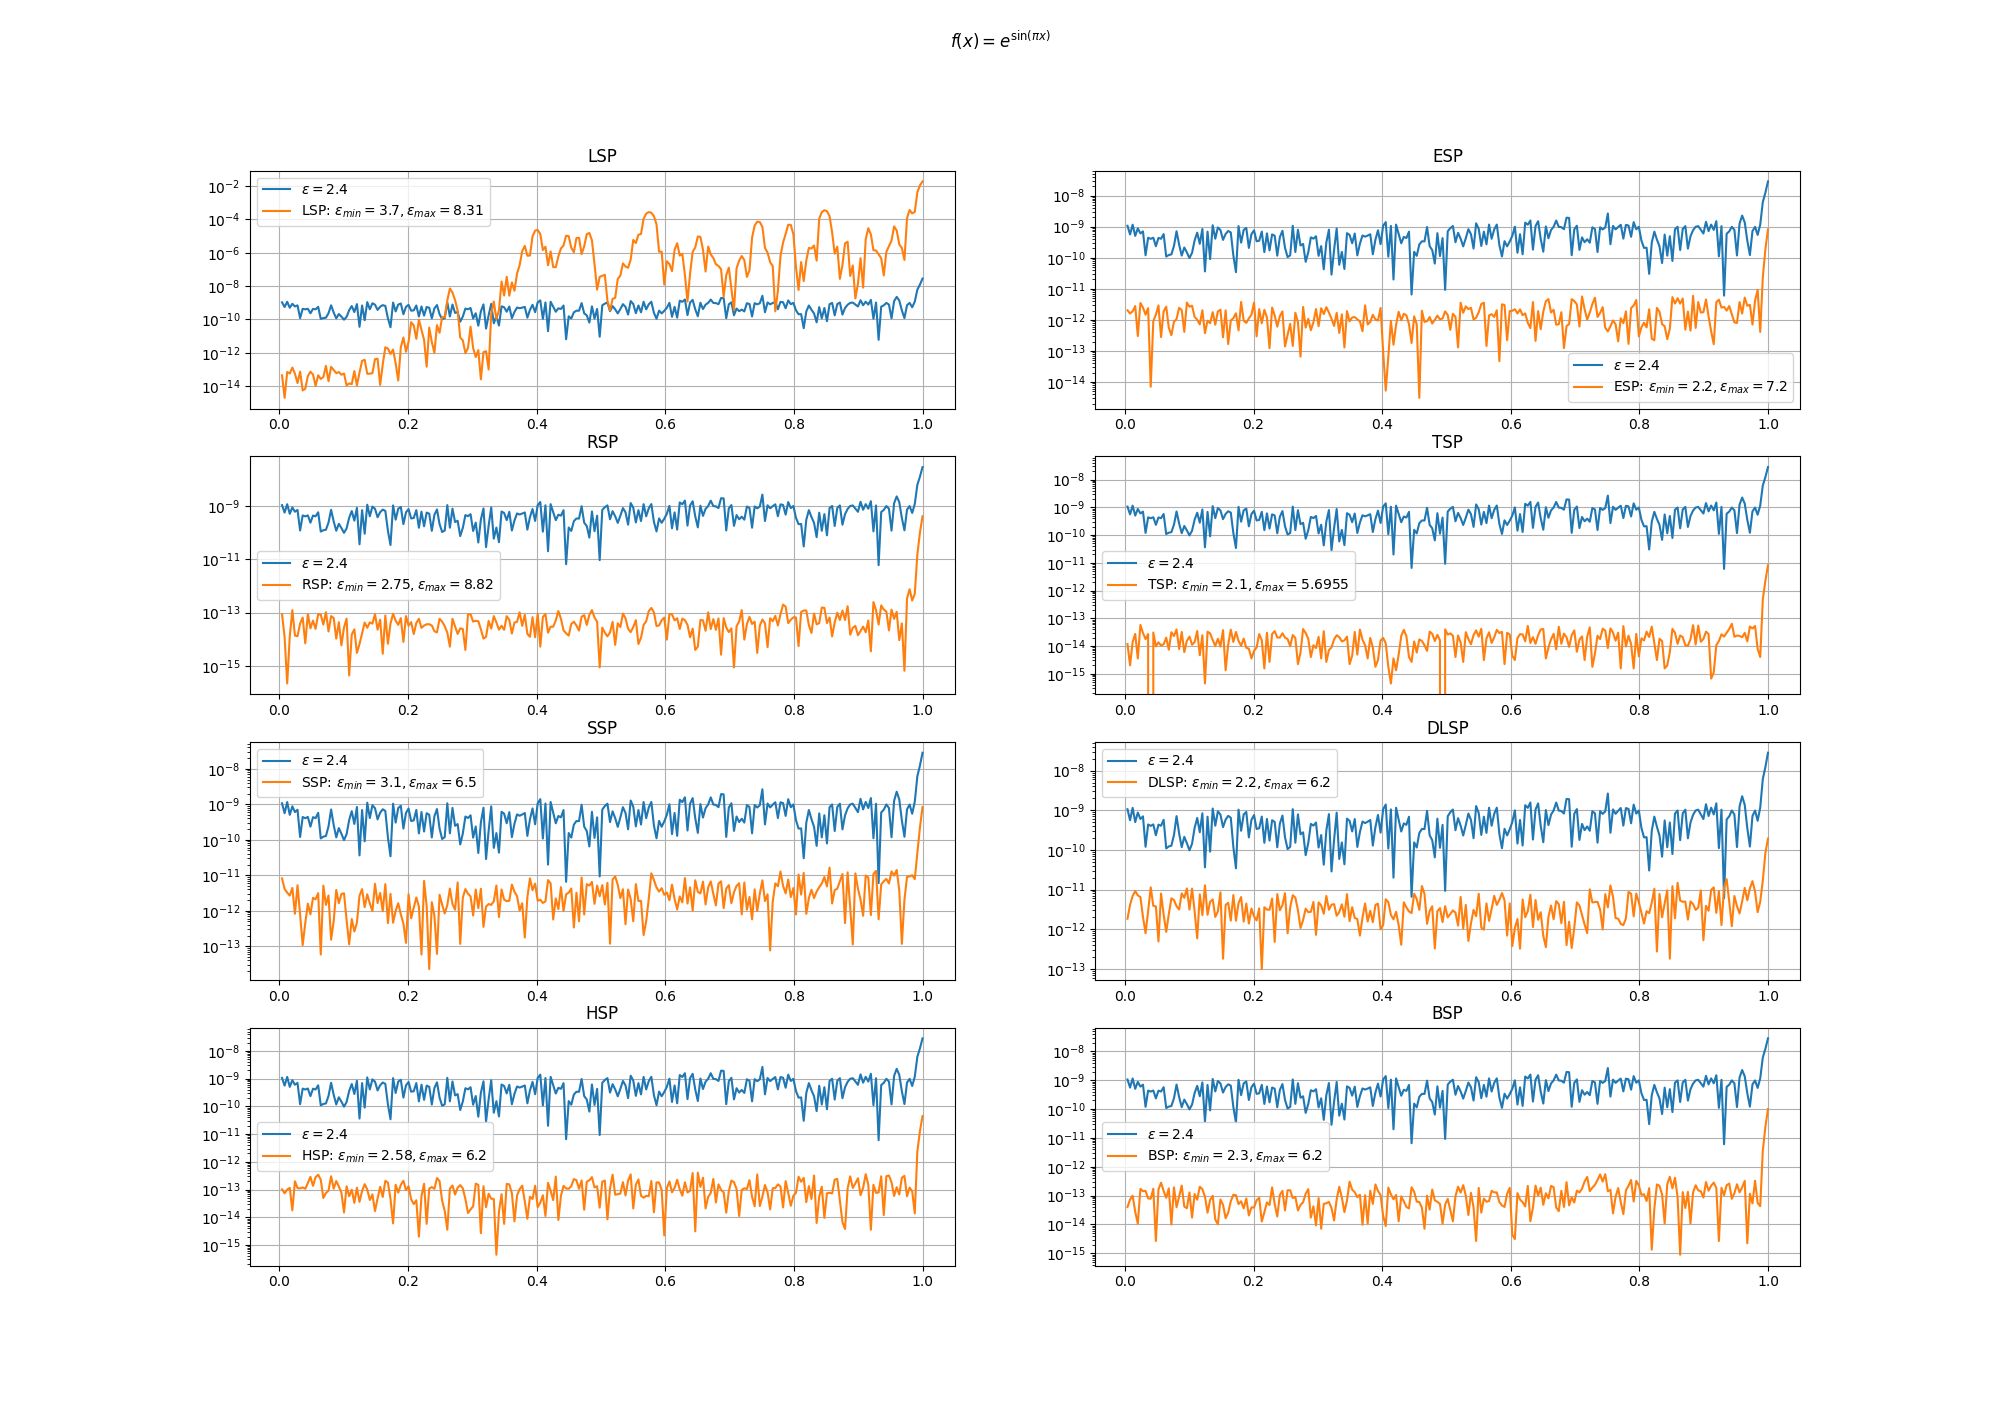
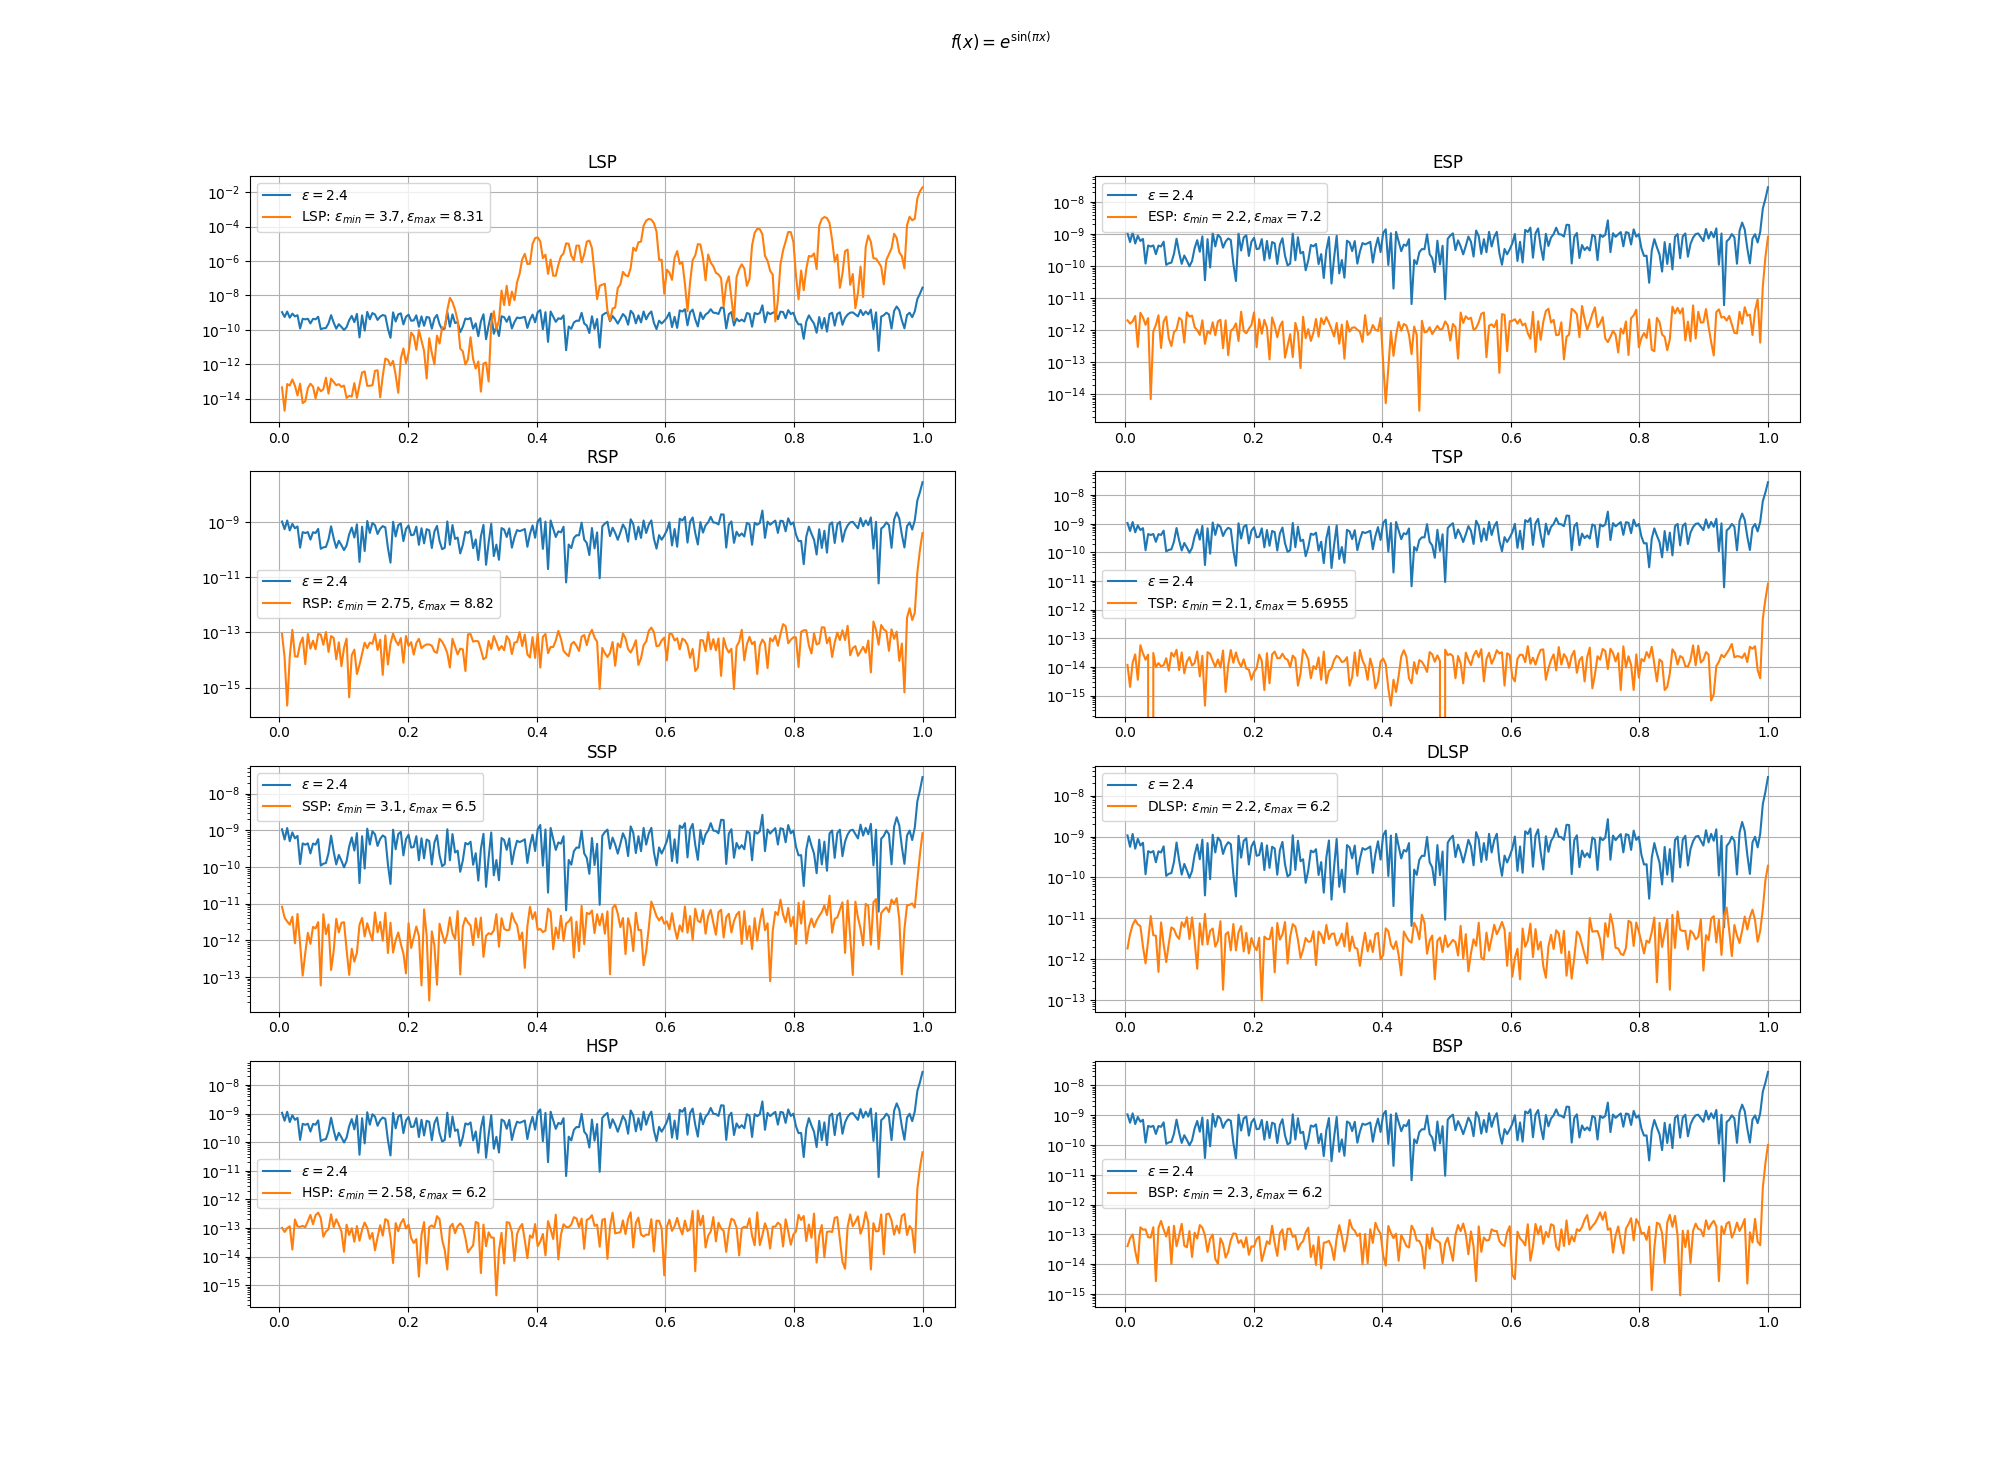
forgot to update the plots and fixed a minor error

diff --git a/1dTestOfVariableSPStrats1.py b/1dTestOfVariableSPStrats1.py
@@ -227,7 +227,7 @@ def RecordData(interps, func_at_evals, sys_matrices, error_data):
     for i in range(len(sys_matrices)):
         kappa[i] = npl.cond(sys_matrices[i])
         norms[i] = npl.norm(interps[i] - func_at_evals, np.inf)
-        avg_err[i] = np.average(error_data[:, i])
+        avg_err[i] = np.average(error_data[i, :])
 
     with open("Test1/Test1-NormsConds.csv", mode='w', newline='') as file:
         writer = csv.writer(file)

diff --git a/1dTestOfVariableSPStrats2.py b/1dTestOfVariableSPStrats2.py
@@ -227,7 +227,7 @@ def RecordData(interps, func_at_evals, sys_matrices, error_data):
     for i in range(len(sys_matrices)):
         kappa[i] = npl.cond(sys_matrices[i])
         norms[i] = npl.norm(interps[i] - func_at_evals, np.inf)
-        avg_err[i] = np.average(error_data[:, i])
+        avg_err[i] = np.average(error_data[i, :])
 
     with open("Test2/Test2-NormsConds.csv", mode='w', newline='') as file:
         writer = csv.writer(file)

diff --git a/1dTestOfVariableSPStrats3.py b/1dTestOfVariableSPStrats3.py
@@ -227,7 +227,7 @@ def RecordData(interps, func_at_evals, sys_matrices, error_data):
     for i in range(len(sys_matrices)):
         kappa[i] = npl.cond(sys_matrices[i])
         norms[i] = npl.norm(interps[i] - func_at_evals, np.inf)
-        avg_err[i] = np.average(error_data[:, i])
+        avg_err[i] = np.average(error_data[i, :])
 
     with open("Test3/Test3-NormsConds.csv", mode='w', newline='') as file:
         writer = csv.writer(file)

diff --git a/README.md b/README.md
@@ -9,42 +9,42 @@
 
 | Shape Parameter | max error   | condition number | average error |
 |-----------------|-------------|------------------|---------------|
-| CSP             | 2.84053e-08 | 9.46208e+18      | 4.11107e-10   |
-| LSP             | 1.89954e-02 | 4.46765e+18      | 1.19704e-10   |
-| ESP             | 8.12520e-10 | 7.70741e+18      | 6.34120e-11   |
-| RSP             | 4.09770e-10 | 8.66796e+18      | 1.29767e-10   |
-| TSP             | 8.15725e-12 | 6.31364e+18      | 5.77420e-11   |
-| SSP             | 8.36735e-10 | 7.83747e+18      | 9.87453e-11   |
-| DLSP            | 1.92813e-10 | 7.68163e+18      | 6.83622e-11   |
-| HSP             | 4.45015e-11 | 7.23772e+18      | 7.93125e-11   |
-| BSP             | 1.00450e-10 | 7.35525e+18      | 1.37091e-11   |
+| CSP             | 2.84053e-08 | 9.46208e+18      | 7.68399e-10   |
+| LSP             | 1.89954e-02 | 4.46765e+18      | 1.53773e-04   |
+| ESP             | 8.12520e-10 | 7.70741e+18      | 5.74946e-12   |
+| RSP             | 4.09770e-10 | 8.66796e+18      | 2.16452e-12   |
+| TSP             | 8.15725e-12 | 6.31364e+18      | 6.38369e-14   |
+| SSP             | 8.36735e-10 | 7.83747e+18      | 8.14208e-12   |
+| DLSP            | 1.92813e-10 | 7.68163e+18      | 5.23682e-12   |
+| HSP             | 4.45015e-11 | 7.23772e+18      | 3.72594e-13   |
+| BSP             | 1.00450e-10 | 7.35525e+18      | 6.28196e-13   |
 
 #### Test 2 Results: 
 ![alt text](/Test2/Test2Plots.png)
 
 | Shape Parameter | max error   | condition number | average error |
 |-----------------|-------------|------------------|---------------|
-| CSP             | 8.04663e-07 | 9.46208e+18      | 3.77612e-09   |
-| LSP             | 3.65947e-01 | 4.46765e+18      | 2.82391e-09   |
-| ESP             | 9.16916e-08 | 7.70741e+18      | 1.11032e-09   |
-| RSP             | 5.86147e-09 | 8.66796e+18      | 3.27684e-09   |
-| TSP             | 1.66892e-10 | 6.31364e+18      | 8.17689e-09   |
-| SSP             | 3.34112e-08 | 7.83747e+18      | 7.11788e-09   |
-| DLSP            | 2.51457e-08 | 7.68163e+18      | 1.88938e-09   |
-| HSP             | 1.67529e-09 | 7.23772e+18      | 9.64029e-09   |
-| BSP             | 8.81181e-09 | 7.35525e+18      | 2.92638e-09   |
+| CSP             | 8.04663e-07 | 9.46208e+18      | 4.89250e-08   |
+| LSP             | 3.65947e-01 | 4.46765e+18      | 2.77831e-03   |
+| ESP             | 9.16916e-08 | 7.70741e+18      | 5.73224e-10   |
+| RSP             | 5.86147e-09 | 8.66796e+18      | 3.17067e-11   |
+| TSP             | 1.66892e-10 | 6.31364e+18      | 2.21648e-12   |
+| SSP             | 3.34112e-08 | 7.83747e+18      | 4.46384e-10   |
+| DLSP            | 2.51457e-08 | 7.68163e+18      | 5.09022e-10   |
+| HSP             | 1.67529e-09 | 7.23772e+18      | 1.56907e-11   |
+| BSP             | 8.81181e-09 | 7.35525e+18      | 5.29751e-11   |
 
 #### Test 3 Results:
 ![alt text](/Test3/Test3Plots.png)
 
 | Shape Parameter | max error   | condition number | average error |
 |-----------------|-------------|------------------|---------------|
-| CSP             | 5.58794e-08 | 9.46208e+18      | 9.38457e-10   |
-| LSP             | 3.36159e-04 | 4.46765e+18      | 1.92960e-10   |
-| ESP             | 2.11037e-09 | 7.70741e+18      | 4.06537e-10   |
-| RSP             | 1.98526e-10 | 8.66796e+18      | 2.47479e-10   |
-| TSP             | 2.60059e-12 | 6.31364e+18      | 4.96872e-10   |
-| SSP             | 9.68157e-10 | 7.83747e+18      | 3.20059e-10   |
-| DLSP            | 3.89264e-10 | 7.68163e+18      | 4.51504e-10   |
-| HSP             | 4.51905e-12 | 7.23772e+18      | 1.45502e-10   |
-| BSP             | 1.03388e-10 | 7.35525e+18      | 1.69878e-10   |
+| CSP             | 5.58794e-08 | 9.46208e+18      | 2.41756e-09   |
+| LSP             | 3.36159e-04 | 4.46765e+18      | 2.68530e-06   |
+| ESP             | 2.11037e-09 | 7.70741e+18      | 1.29222e-11   |
+| RSP             | 1.98526e-10 | 8.66796e+18      | 1.05131e-12   |
+| TSP             | 2.60059e-12 | 6.31364e+18      | 2.57518e-14   |
+| SSP             | 9.68157e-10 | 7.83747e+18      | 6.74534e-12   |
+| DLSP            | 3.89264e-10 | 7.68163e+18      | 7.32744e-12   |
+| HSP             | 4.51905e-12 | 7.23772e+18      | 1.15509e-13   |
+| BSP             | 1.03388e-10 | 7.35525e+18      | 6.32585e-13   |
